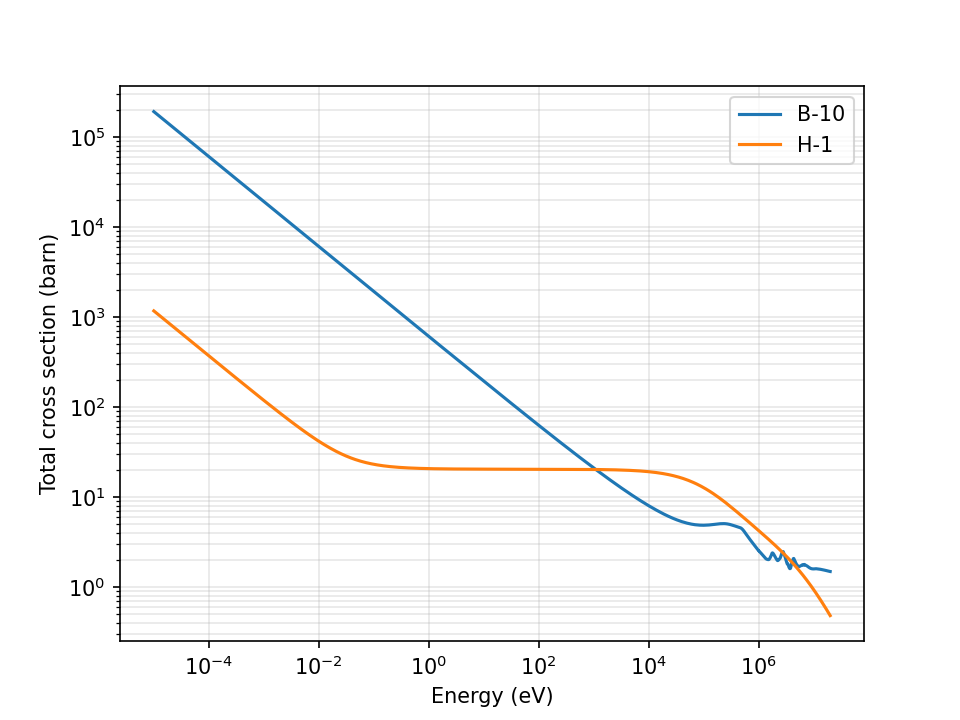
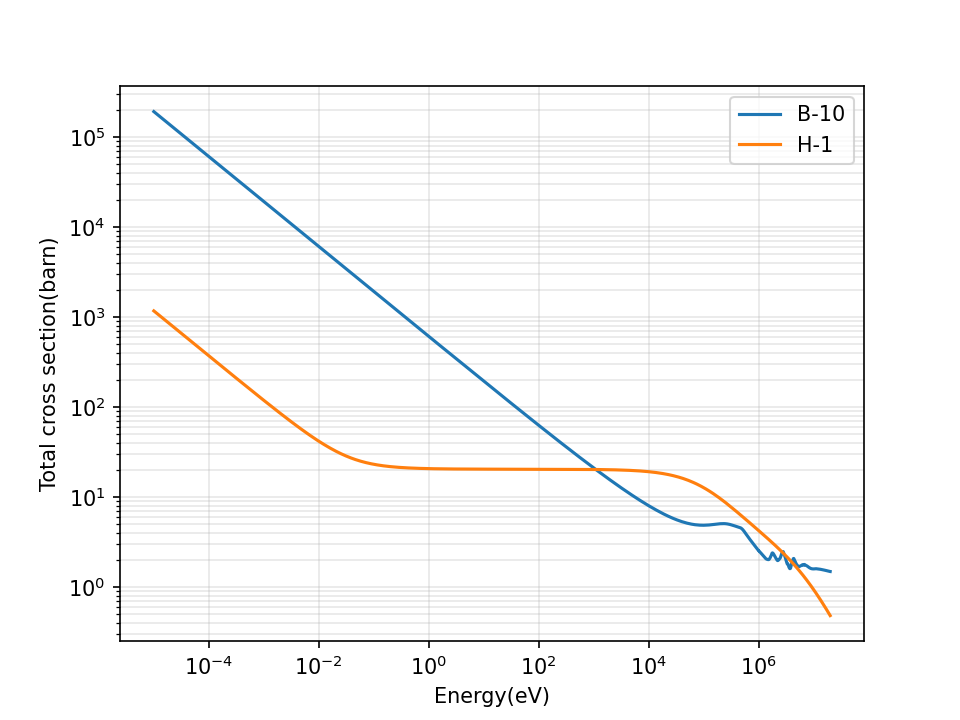
10/3：学plot_xs、xs_lookup（手敲副本）；sample_target抄写稿；plot_xs变量名aer_h改awr_h；total_xs.png重新生成

Changed region(s): [[0.0312, 0.3056, 0.0625, 0.7028], [0.4375, 0.9472, 0.5938, 1.0]]

diff --git a/copy_xs_lookup.py b/copy_xs_lookup.py
@@ -1,0 +1,67 @@
+import os
+import h5py
+import numpy as np
+
+LIB=r"E:\BNCT_GPU\lib80x_hdf5"
+NUC="B10"
+T="294K"
+E_TEST=0.0253
+BARN=1.0e-24
+
+def load_nuclide(nuc,T):
+    path=os.path.join(LIB,nuc+".h5")
+    with h5py.File(path,"r")as f:
+        root=f[nuc]
+        E=root["energy"][T][:]
+        awr=float(root.attrs["atomic_weight_ratio"])
+        names=list(root["reactions"].keys())
+        
+        mts=[]
+        XS=[]
+        
+        for name in sorted(names):
+            redundant=root["reactions"][name].attrs["redundant"]
+            if redundant==1:
+                continue
+            xs_ds=root["reactions"][name][T]["xs"]
+            xs=xs_ds[:]
+            thr=int(xs_ds.attrs["threshold_idx"])
+            s=np.zeros(len(E))
+            s[thr:]=xs
+            XS.append(s)
+            mts.append(int(root["reactions"][name].attrs["mt"]))
+    return E,mts,XS,awr
+
+def xs_at(E,s,e,lo):
+    i=lo+1
+    frac=(e-E[lo])/(E[i]-E[lo])
+    return s[lo]+frac*(s[i]-s[lo])
+
+def find_cell(E,e):
+    if e==E[-1]:
+        lo=len(E)-2
+    else:
+        i=np.searchsorted(E,e,side="right")
+        lo=i-1
+    return lo
+
+def sigma_at(E,XS,e):
+    lo=find_cell(E,e)
+    sig=[]
+    for j in range(len(XS)):
+        sig.append(xs_at(E,XS[j],e,lo))
+    total=sum(sig)
+    return sig,total
+
+if __name__ == "__main__":
+    E, mts, XS, awr = load_nuclide(NUC, T)
+    i2   = mts.index(2)
+    i800 = mts.index(800)
+    i801 = mts.index(801)
+    i51  = mts.index(51)
+    lo = find_cell(E, E_TEST)
+    print("elastic  :", xs_at(E, XS[i2],   E_TEST,lo))
+    print("n,a0     :", xs_at(E, XS[i800], E_TEST,lo))
+    print("n,a1     :", xs_at(E, XS[i801], E_TEST,lo))
+    print("n,a total:", xs_at(E, XS[i800], E_TEST,lo) + xs_at(E, XS[i801], E_TEST,lo))
+    print("inelastic:", xs_at(E, XS[i51],  E_TEST,lo))

diff --git a/copy_plot_xs.py b/copy_plot_xs.py
@@ -1,0 +1,38 @@
+from xslib import total_xs
+import matplotlib.pyplot as plt
+import numpy as np
+import os
+
+HERE=os.path.dirname(os.path.abspath(__file__))
+
+T="294K"
+E_b,tot_b,at_b,i0_b,awr_b=total_xs("B10",T)
+E_h,tot_h,at_h,i0_h,awr_h=total_xs("H1",T)
+
+k=i0_b
+p=np.log(tot_b[k+1]/tot_b[k])/np.log(E_b[k+1]/E_b[k])
+print("B-10 热能区 log-log斜率=%.6f"%p)
+
+plt.plot(E_b,tot_b,label="B-10")
+plt.plot(E_h,tot_h,label="H-1")
+
+plt.xscale("log")
+plt.yscale("log")
+plt.xlabel("Energy(eV)")
+plt.ylabel("Total cross section(barn)")
+plt.legend()
+plt.grid(True,which="both",alpha=0.3)
+
+plt.savefig(os.path.join(HERE,"total_xs.png"),dpi=150)
+plt.show()
+
+k=i0_b
+print("E[k]=%.6e"%E_b[k])
+print("E[k+1]=%.6e"%E_b[k+1])
+print("tot[k]=%.6f"%tot_b[k])
+print("tot[k+1]=%.6f"%tot_b[k+1])
+print("分子 log(tot比)=%.6e"%np.log(tot_b[k+1]/tot_b[k]))
+print("分母 log(E比)=%.6e"%np.log(E_b[k+1]/E_b[k]))
+
+print("tot_h[0]=%.4f barn(E=%.3eeV)"%(tot_h[0],E_h[0]))
+print("tot_h[i0_h]=%.4f barn(E=%.3eeV)"%(tot_h[i0_h],E_h[i0_h]))

diff --git a/whiteboard/rewrite_target1.py b/whiteboard/rewrite_target1.py
@@ -1,0 +1,29 @@
+import math
+from rng import lcg, isotropic_direction
+import os
+import h5py
+import numpy as np
+from xs_lookup import LIB,sigma_at
+
+pi=math.pi
+def path_A_prob(y):
+    return y*math.sqrt(pi)/(y*math.sqrt(pi)+2)
+
+def sample_target(y,rng):
+    for k in range(1000):
+        xi2=rng.random()
+        xi3=rng.random()
+        xi4=rng.random()
+        if rng.random()<path_A_prob(y):
+            x2=-math.log(1-xi2)-math.log(1-xi3)*math.cos((1-xi4)/2*pi)**2
+        else:
+            x2=-math.log((1-xi2)*(1-xi3))
+        x=math.sqrt(x2)
+        mu_T=rng.random()*2-1
+        arg=x**2+y**2-2*x*y*mu_T
+        V_rel=math.sqrt(max(arg,0.0))
+        pac=V_rel/(x+y)
+        if rng.random()<pac:
+            return x,mu_T,k+1
+    else:
+        assert False

diff --git a/plot_xs.py b/plot_xs.py
@@ -8,7 +8,7 @@ HERE = os.path.dirname(os.path.abspath(__file__))
 
 T="294K"
 E_b, tot_b, at_b, i0_b,awr_b = total_xs("B10", T)
-E_h, tot_h, at_h, i0_h ,aer_h= total_xs("H1",  T)
+E_h, tot_h, at_h, i0_h ,awr_h= total_xs("H1",  T)
 
 k = i0_b
 p = np.log(tot_b[k+1]/tot_b[k]) / np.log(E_b[k+1]/E_b[k])
